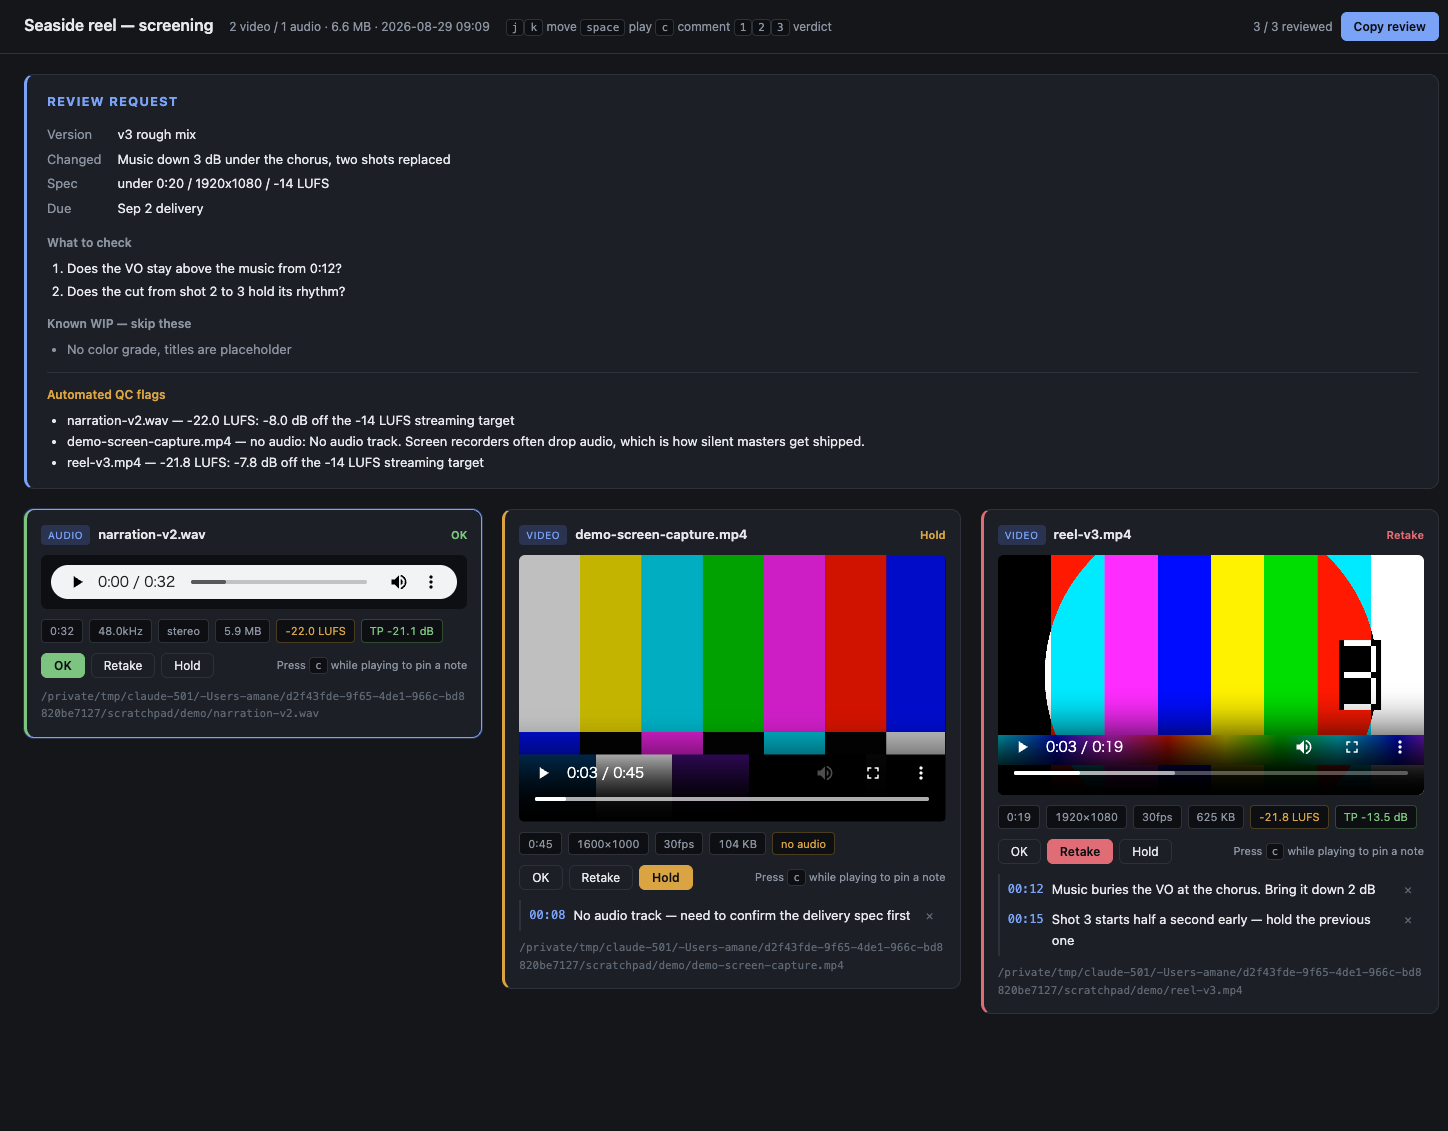
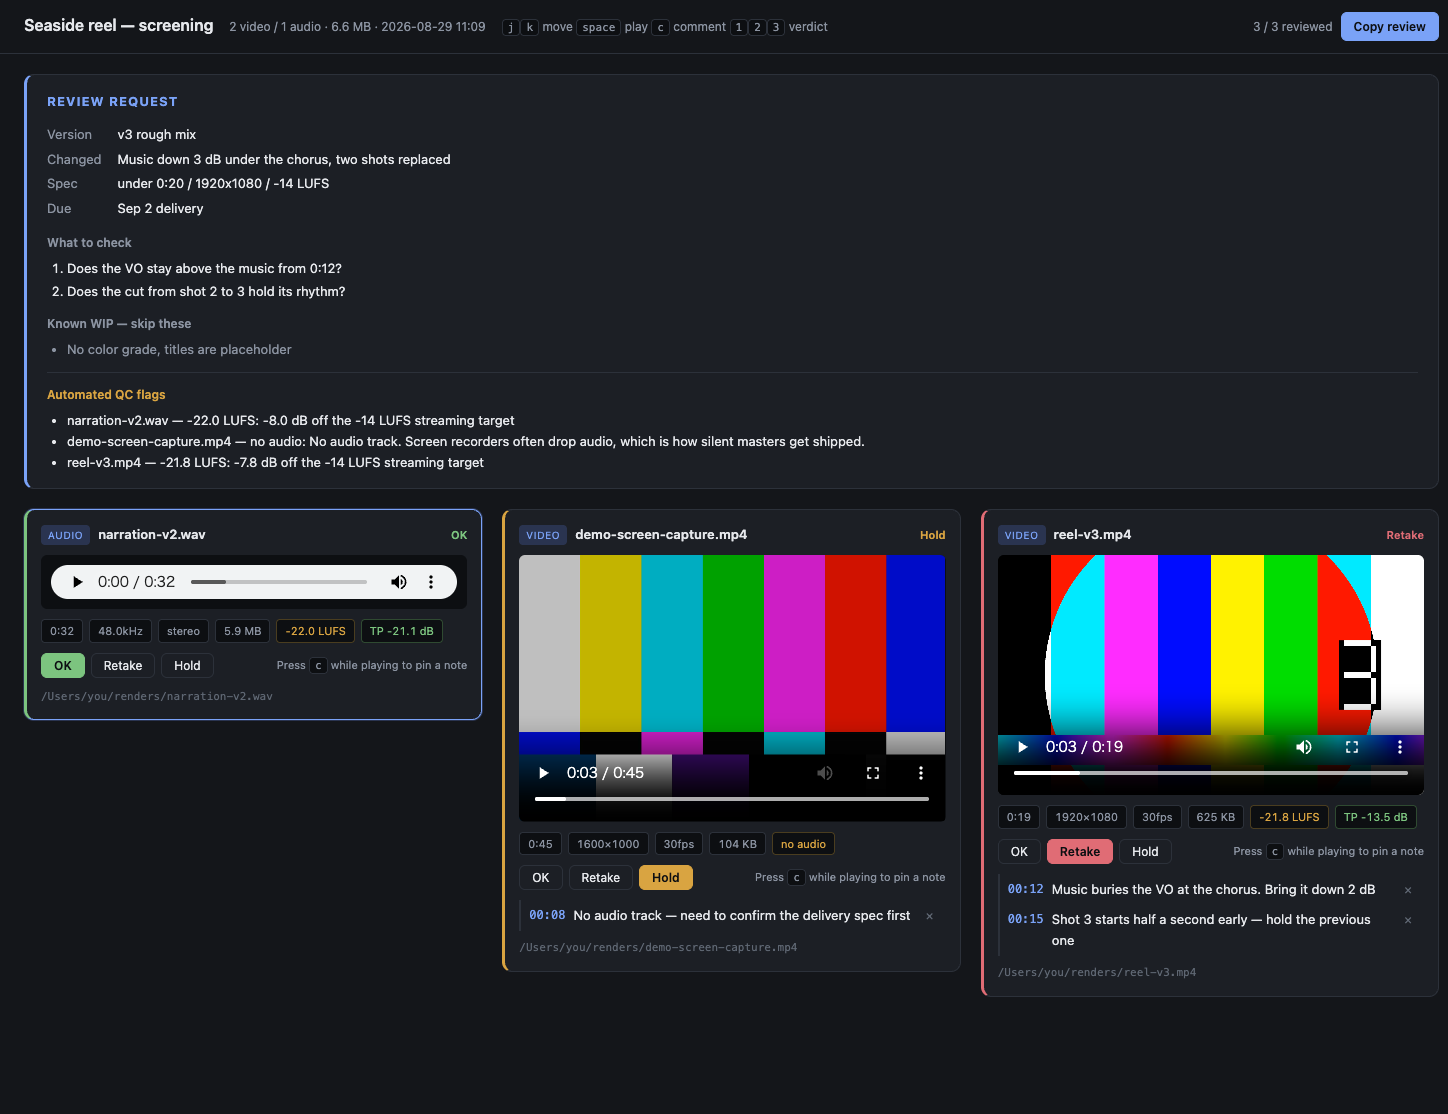
fix: harden script interpolation and cap probe concurrency
Two issues found in a security pass over the published version.

Values interpolated into the page's inline <script> went through
JSON.stringify, which leaves `<` intact — a title containing `</script>`
would have closed the block and let following text execute. Escape `<`
to < on that path. Filenames were already HTML-escaped and notes
already go in via textContent, so this was the only break-out route.

ffprobe and ffmpeg were spawned once per file with no limit, so pointing
the tool at a large directory (easy to do by forgetting --since) could
fan out to hundreds of concurrent processes. Cap it at 4.

Also documents in the README that the generated page embeds absolute
local paths and is not meant to be shared, and reshoots the screenshot
with neutral paths instead of a real home directory.

Claude-Session: https://claude.ai/code/session_01YY5K7yhj3NnDL1ZaAZ89vo

diff --git a/README.md b/README.md
@@ -97,6 +97,21 @@ Only one stream plays at a time, so a screening never becomes overlapping audio.
 - (no notes)
 ```
 
+## Privacy
+
+Everything stays on your machine. Nothing is uploaded, and the page contacts no network at all — no CDN, no fonts, no analytics.
+
+Two consequences worth knowing:
+
+- **The generated HTML embeds absolute local paths** and points at your media through `file://` URLs. It is a local artifact. Sending the HTML to someone else leaks your directory layout, and the media will not play on their machine anyway
+- **Verdicts and notes live in `localStorage`** on the page's own origin, so they never leave the browser. Clearing site data drops them
+
+## Security
+
+- Filenames and every brief field are HTML-escaped before rendering, and values interpolated into the page's inline `<script>` have `<` escaped so a `</script>` in a title cannot break out
+- Notes are inserted with `textContent`, never `innerHTML`
+- `ffprobe` and `ffmpeg` are invoked through `execFile` with an argument array, so no filename reaches a shell
+
 ## License
 
 MIT
